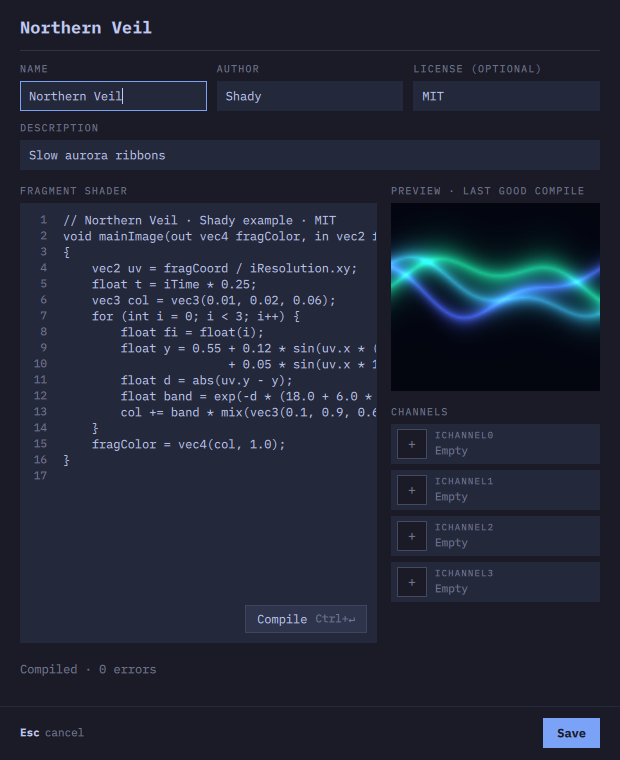
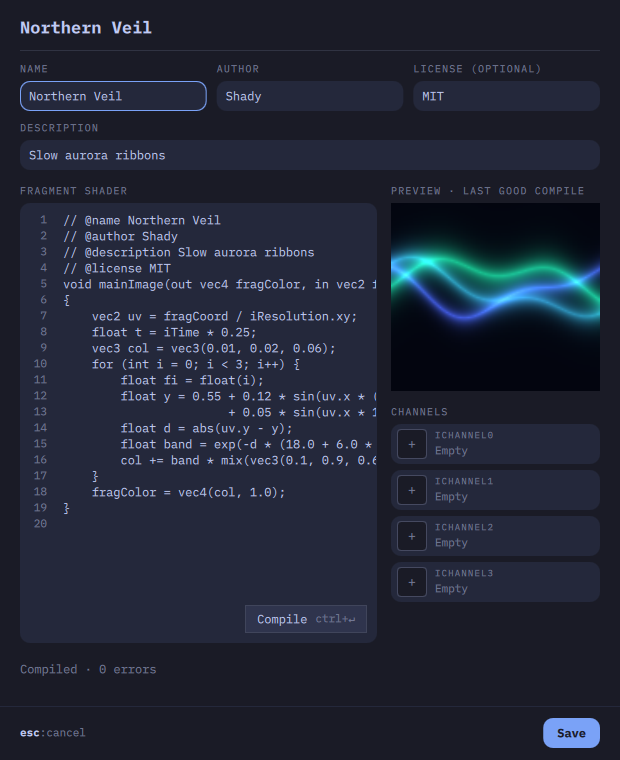
Docs: README, CHANGELOG and screenshots for 0.2.0

diff --git a/README.md b/README.md
@@ -4,13 +4,17 @@ Shadertoy-style GLSL shaders as a calm, keyboard-first screensaver and viewer fo
 
 Designed together by [Allan](https://github.com/allandehn) and [Grok](https://x.ai).
 
-![The start page with the four example shaders](docs/list.png)
+![The start page with the five example shaders](docs/list.png)
 
 ![The editor open on Northern Veil](docs/editor.png)
 
 ## Features
 
-- Paste Shadertoy code (`mainImage`, `iTime`, `iResolution`, `iMouse`, `iChannel0–3`) and it runs.
+- Paste Shadertoy code (`mainImage`, `iTime`, `iResolution`, `iMouse`, `iChannel0–3`) and it runs. A `// @name` / `@author` / `@description` / `@license` header fills in the details.
+- Five examples, including Crouwel's New Alphabet: glyphs after Wim Crouwel drawing themselves on a grid.
+- Click a shader to run it. Hover a card to star it or trash it, with tooltips.
+- The viewer shows a centred badge when a shader starts (name, author, keys) and again when you change quality, fps or auto-adapt.
+- Key hints along the bottom of every screen, written as `key:action`, and `?` for the full list. The mouse back button works like `esc`.
 - Star, hide, multi-select, Trash with undo.
 - An editor with a live preview, built-in noise textures or your own images as channels, and every compile error linked to its line.
 - Quality and fps per shader, auto-adapt on slow machines, and a pause for shaders that are too heavy.
@@ -41,6 +45,19 @@ Needs Qt 6.6+ (`qt6-base`, `qt6-declarative`, `qt6-shadertools`, plus `qt6-tools
     cmake -S . -B build -G Ninja -DCMAKE_BUILD_TYPE=Release
     cmake --build build
     sudo cmake --install build      # installs /usr/local/bin/shady
+
+## Shader metadata header
+
+Start a shader with a comment and Shady fills in the editor's fields when you paste or edit it:
+
+```glsl
+// @name Crouwel's New Alphabet
+// @author Shady
+// @description Glyphs on a grid, after Wim Crouwel
+// @license MIT
+```
+
+`Name:` / `Author:` / `Description:` / `License:` (also `Title:`, `By:`) work too, case-insensitive, in `//` lines or one leading `/* */` block. A field follows the header while it's empty or still matches it; once you type your own value it stays yours. Editing the fields doesn't rewrite the source.
 
 ## Uninstall
 

diff --git a/CHANGELOG.md b/CHANGELOG.md
@@ -1,6 +1,20 @@
 # Changelog
 
-## 0.1.0 (unreleased)
+## 0.2.0
+
+- Shader metadata header: `// @name`, `@author`, `@description`, `@license` (also `Name:` etc.) fill in the editor's fields when you paste or edit.
+- New example: Crouwel's New Alphabet, glyphs after Wim Crouwel drawn on a grid in colours from the whole spectrum.
+- Click a card to run it; hover shows the star and trash buttons with tooltips.
+- Viewer: a centred badge shows name, author, description and keys when a shader starts, and the setting you changed (quality, fps, auto-adapt). No bottom bar.
+- Key hints on every screen, lower case and written as `key:action`; `?` lists every key and mouse action.
+- The mouse back button works like `esc`.
+- I-beam pointer over text fields.
+
+## 0.1.1
+
+- Packaging: the QML module is compiled into the binary; the package ships the .desktop file, icon and license. One-line installer.
+
+## 0.1.0
 
 First release.
 

diff --git a/AGENTS.md b/AGENTS.md
@@ -60,3 +60,7 @@
 
 ## Text fit
 Every screenshot step in the UI, potato and language tests runs `fits()`. It fails if any visible Text spills past the nearest background, clip or window, or overlaps another Text in the same box. The language test (`--danish-shot`, run with SHADY_LANG=da and en) also checks a narrow 440 px window. Give a Label a width and let it elide, or let the layout reflow. Install iA Writer Mono (github.com/iaolo/iA-Fonts) system-wide so headless screenshots match Omarchy.
+
+## Approval rule
+
+Never create issues, PRs, comments, releases, tags or pushes, or post anything in Allan's name, without his explicit approval for that specific action.
